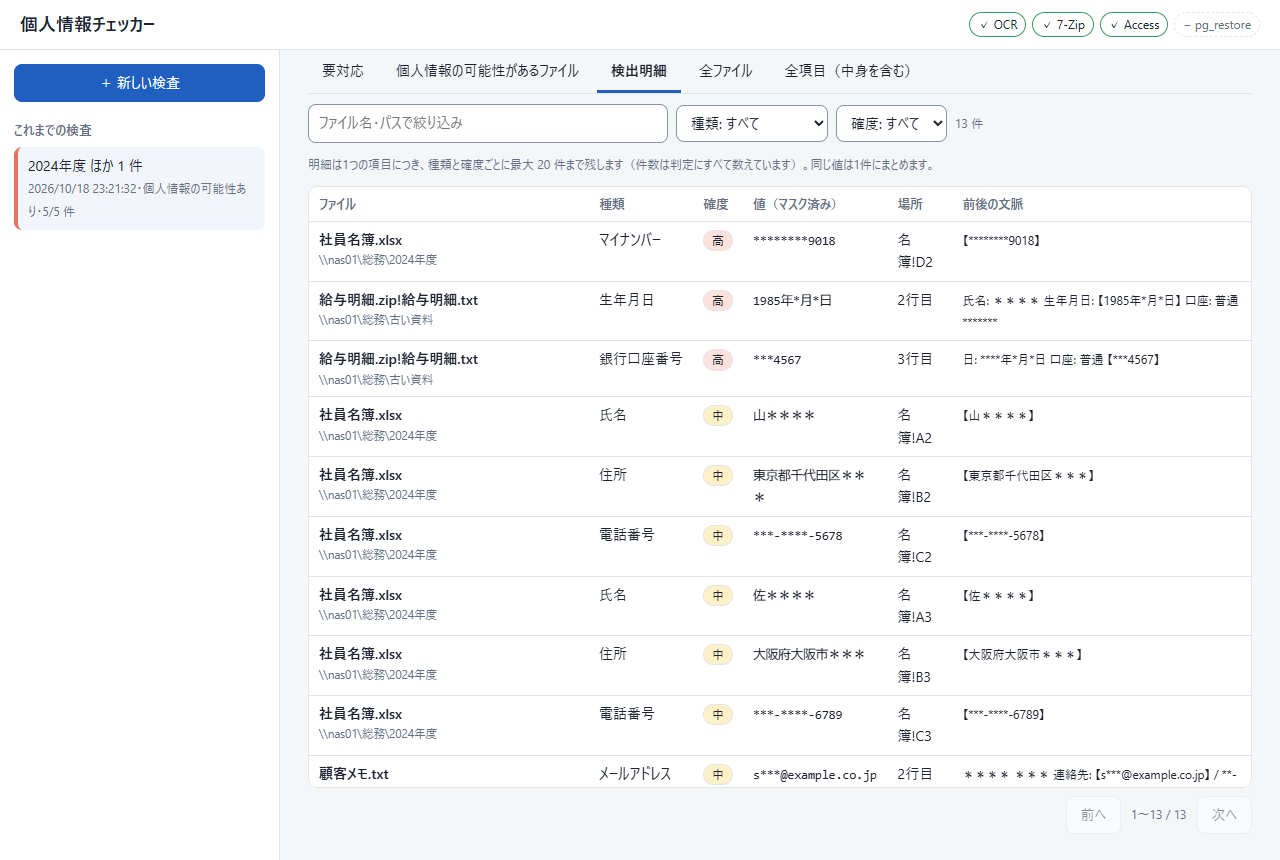
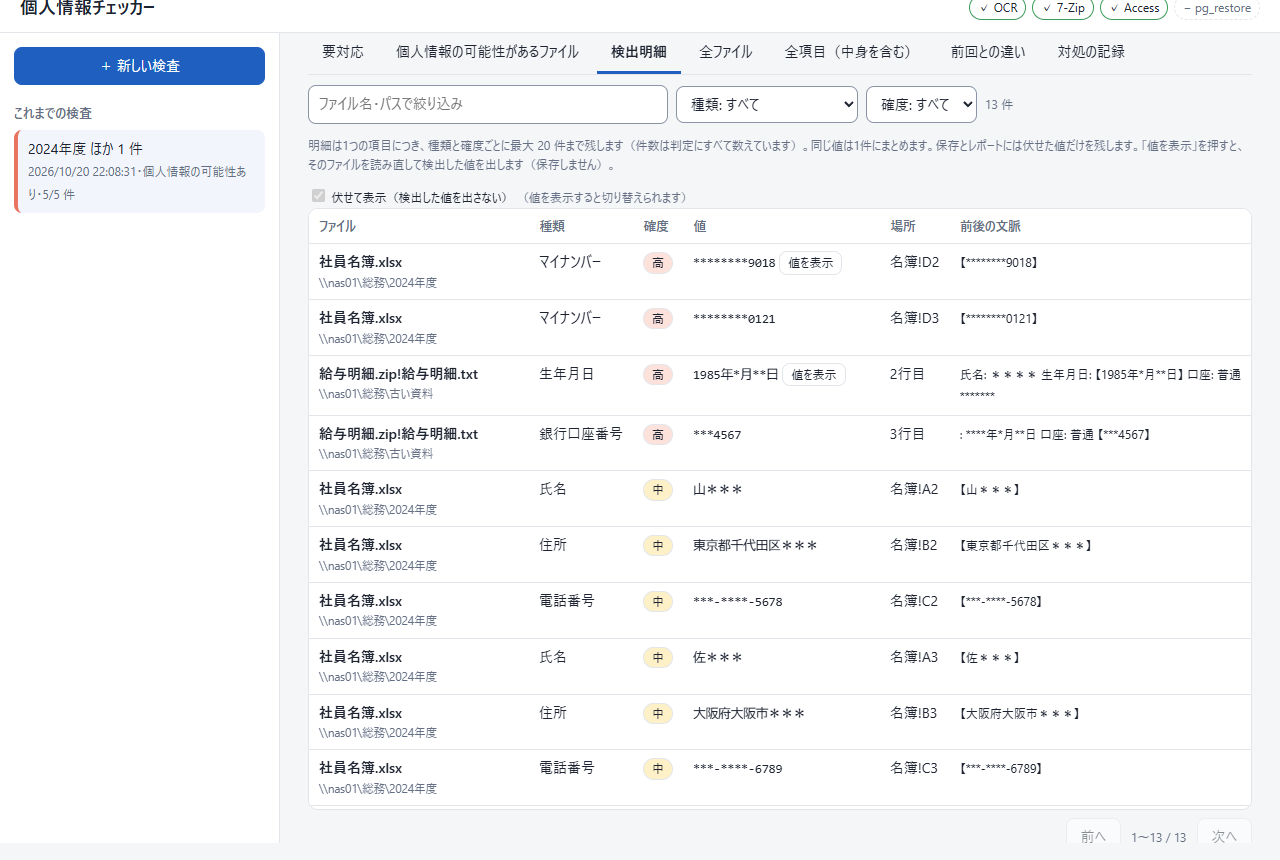
文書: 画面の写真を 1.2.0 の画面で撮り直し、対処の下見・対処の記録の写真を足す
- docs/images の 02〜08 を、7つのタブ・「対処する…」のある今の画面で撮り直した（架空のデータ。表示のパスは \\nas01 の例示に置き換えた）
- 09_remedy_preview.png（対処の下見）・10_remedy_log.png（対処の記録のタブ）を足し、詳しい説明に対処の記録の写真を載せた
- CHANGELOG: 「書き換えない部分はそのまま残す」を、形式ごとの事実に合わせた（xlsx の行・列・シートの削除は保存し直すので図形などが失われうる・下見に出る）

Claude-Session: https://claude.ai/code/session_01LDeuM7thK883BmPPvCYLTM

diff --git a/CHANGELOG.md b/CHANGELOG.md
@@ -11,7 +11,7 @@
 - 対象の形式: csv・tsv・txt・xlsx・xlsm・docx・docm・pptx・pptm・PDF・SQLite・SQL のダンプ（pg_dump の平文・mysqldump など）・Oracle のダンプ（旧 exp・expdp）・Access（.accdb・.mdb）・圧縮ファイル（zip・7z・tar 系など。入れ子も）の中のファイル
 - 実行の前に「下見」（変わる行・列・シートの数と例・注意）を出し、ファイル名を示してもう一度「実行する」を押してもらう。対象は、実行の時点でファイルを読み直して集めた全部の検出の位置（明細の20件だけではない）
 - **元の写しは作らない**（個人情報のファイルを手元のディスクへ写さないため）。ごみ箱のある場所では元を「元の名前（対処前 日時）」にしてごみ箱へ送り、**ごみ箱の無い場所（NAS・外付け）では元は残らない**（下見に赤く出る）。途中で落ちても、元か新しいファイルのどちらかが必ず残る
-- 書き換えたあとに検査し直し、消した値がファイルに残っていれば取りやめる。書式・マクロ・グラフ・フォーム・VBA・クエリなど、書き換えない部分はそのまま残す
+- 書き換えたあとに検査し直し、消した値がファイルに残っていれば取りやめる。xlsx のダミー化・docx・pptx・Access は、書き換えない部分（書式・グラフ・マクロ・フォーム・VBA・クエリなど）をそのまま残す。xlsx の行・列・シートの削除は保存し直すため、図形などが失われることがある（下見に出る）
 - Access は、この PC に Access の部品（ACE）があればそれで書き換え、無ければ .mdb は同梱の 32bit の Jet、.accdb は同梱の Java と Jackcess で書き換える（このため配布版に Java 実行環境（約 48MB）と Jackcess を同梱した）。Oracle の書き換えたダンプは、imp・impdp で読み込めるかを確かめてから戻すこと（下見に出る）
 - 「対処の記録」のタブに、いつ・何に・どう対処したかを出す（検出した値は書かない）
 

diff --git a/docs/詳しい説明.md b/docs/詳しい説明.md
@@ -305,6 +305,8 @@ cmd\PiiChecker-cmd.exe serve --host 0.0.0.0 --token <推測されにくい長い
 - 途中で落ちても（アプリの強制終了・電源断）、元の中身か新しい中身のどちらかが必ず元の名前（か「対処前」の名前）で残り、アプリの起動時と同じファイルへの次の対処の前に立て直します。立て直した内容は「対処の記録」に出ます。判断できないときは、どちらのファイルも消さずに残します
 - 書き換えたファイルには、元の属性（隠し・システムなど）・作成日時・アクセス権・代替データストリームを引き継ぎます。引き継げなかったものは結果の知らせに出ます（Windows の暗号化（EFS）は引き継げません）
 
+![対処の記録のタブ](images/10_remedy_log.png)
+
 ### できない・選べないもの
 
 - 読み取り専用のファイル・FTP の先のファイル・パスワード付き（暗号化）のファイル（検査のとき入れたパスワードがある PDF は、同じパスワードで暗号化し直して書き換えられます）・中身を最後まで構造どおりに読めなかったファイル・対応していない形式は、中身の書き換えを選べません
